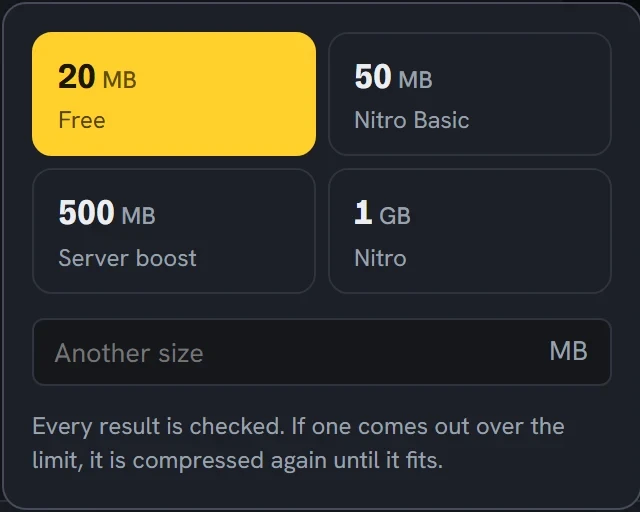
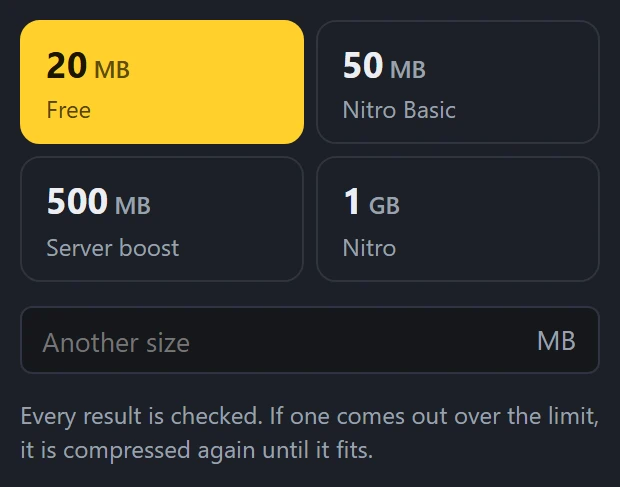
Site: legible feature shots on the app's ground, and less empty room around the features

diff --git a/site/src/styles/site.css b/site/src/styles/site.css
@@ -16,15 +16,17 @@
 
 .nav__logo .logo { width: 28px; height: 28px; border-radius: 7px; }
 
-/* Screenshots in card panels: the app's own ground behind them, the whole
-   shot inside the panel's padding. */
-#features .panel { --p-h: 260px; }
-/* a phone: four cards and the marquee in two screens; the shots keep their size with a smaller inset */
-@media (max-width: 639px) { #features .panel { --p-h: 140px; } #features .panel.shot > img { inset: var(--s-3); width: calc(100% - 2 * var(--s-3)); height: calc(100% - 2 * var(--s-3)); } .formats { margin-bottom: var(--s-5); } }
-.panel.shot { background: #15171c; overflow: hidden; }
+/* Screenshots in card panels: the app's own ground behind them, each a tight crop of what the card
+   says, drawn at about the app's own size inside the panel's padding. The second row's crops are
+   shorter (.shot--low). */
+#features .panel { --p-h: 340px; }
+#features .panel.shot--low { --p-h: 264px; }
+/* a phone: each shot is its own narrow crop (Shot's phone), as wide as the panel, with a smaller inset */
+@media (max-width: 639px) { #features .panel, #features .panel.shot--low { --p-h: 184px; } #features .panel.shot img { inset: var(--s-3); width: calc(100% - 2 * var(--s-3)); height: calc(100% - 2 * var(--s-3)); } .formats { margin-bottom: var(--s-5); } }
+/* With the id it outweighs the kit's mesh for tech pages (cards.css), which drew an olive haze here. */
+#features .panel.shot { background: #15171c; overflow: hidden; }
 /* Out of the flow, so the panel keeps its own height and the shot is never drawn larger than its file. */
-.panel.shot > img { position: absolute; inset: var(--s-5); width: calc(100% - 2 * var(--s-5)); height: calc(100% - 2 * var(--s-5)); max-width: none; object-fit: scale-down; }
-.shot--top img { object-position: 50% 0; }
+.panel.shot img { position: absolute; inset: var(--s-5); width: calc(100% - 2 * var(--s-5)); height: calc(100% - 2 * var(--s-5)); max-width: none; object-fit: scale-down; }
 /* The marquee's rail is as wide as its two tracks; one column the width of the wrap keeps it from widening both groups. */
 #features > .wrap { grid-template-columns: minmax(0, 1fr); }
 .formats { margin-bottom: var(--s-7); min-width: 0; }
@@ -138,6 +140,14 @@
 /* The hero, and Lite. */
 
 /* The feature shots, and the room between sections. */
+/* The features are as tall as their cards, not two whole screens, so the heading follows the hero
+   closely and the second row of cards follows the first. A link to #features still stops with the
+   heading clear of the fixed header. */
+#features { height: auto; min-height: 0; padding-top: var(--s-7); scroll-margin-top: calc(var(--nav) + var(--s-6) - var(--s-7)); }
+#features > .wrap { height: auto; grid-template-rows: auto auto; }
+@media (min-width: 640px) { #features > .wrap { row-gap: var(--s-8); } }
+/* a tablet: one card a row, so the shots stay big enough to read, with room between the cards */
+@media (min-width: 640px) and (max-width: 1023px) { #features .grid { row-gap: var(--s-7); } #features .grid > .card { grid-column: 1 / -1; } }
 
 /* The trim bracket, the site's own device. */
 
